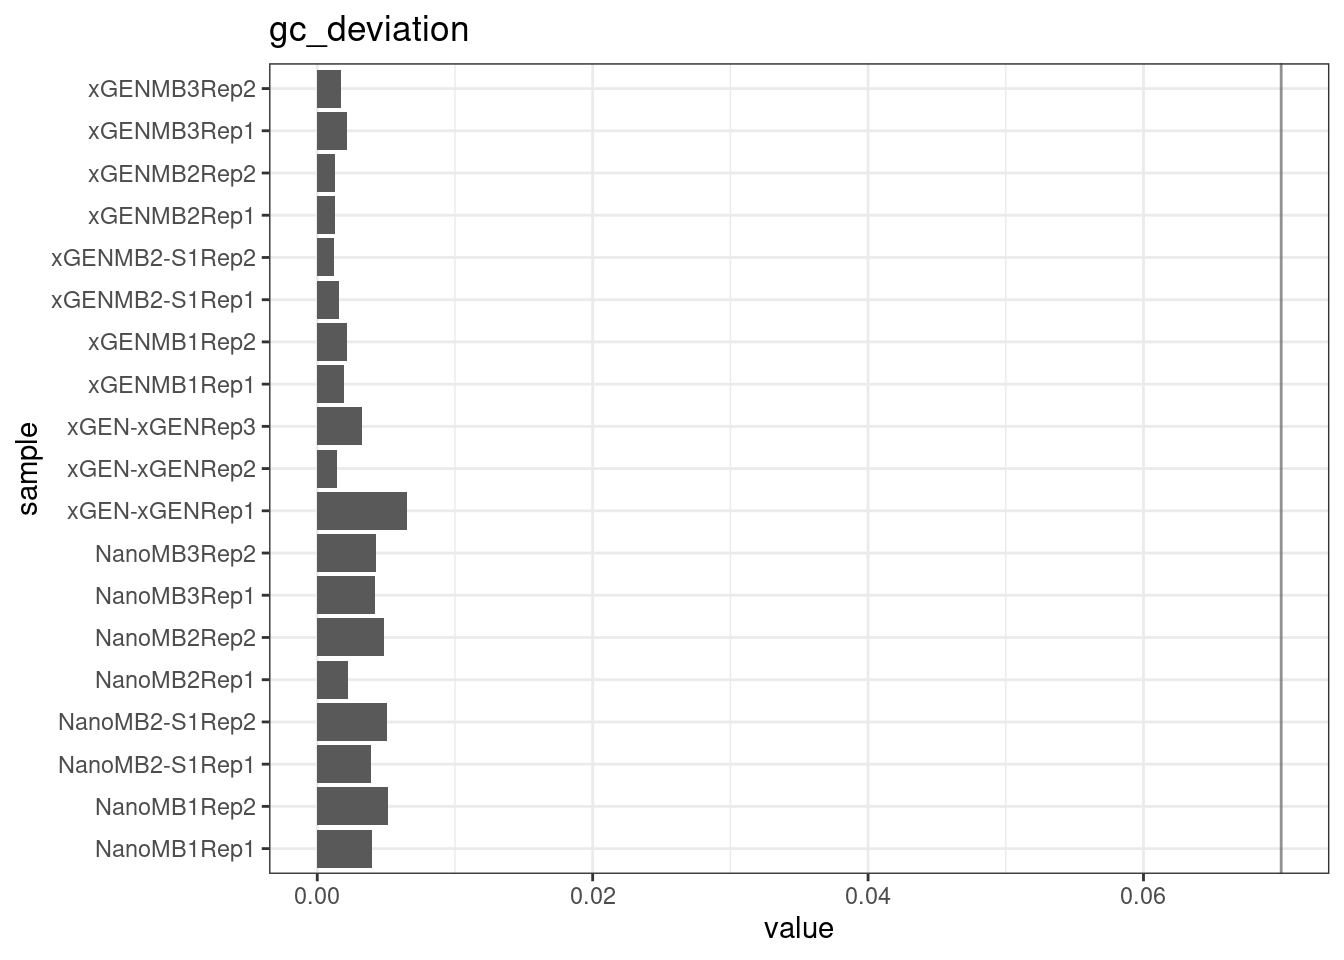
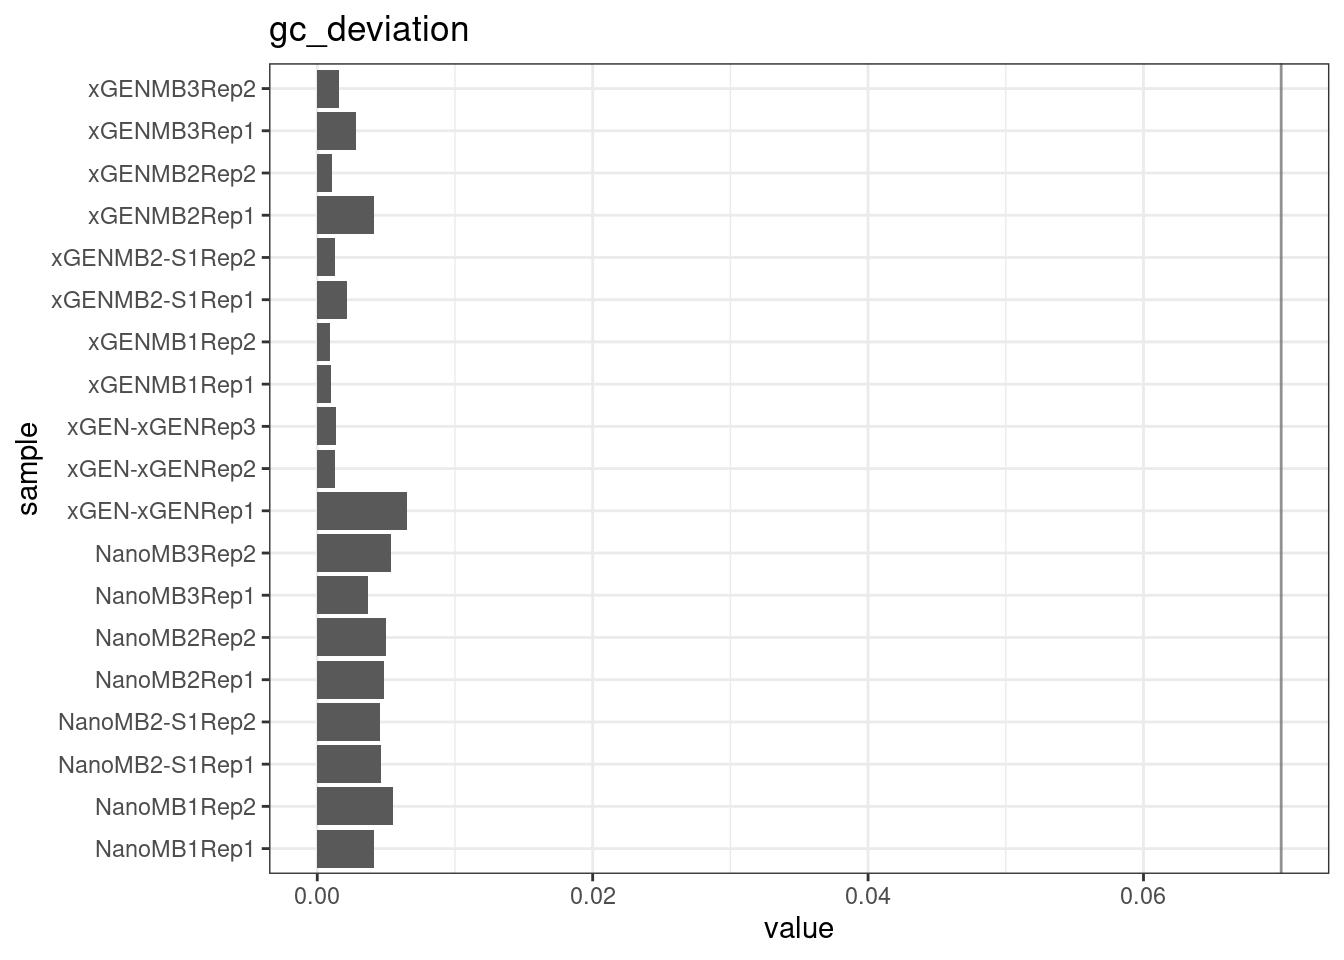
Build site.

diff --git a/docs/ecoli_K12.html b/docs/ecoli_K12.html
@@ -394,7 +394,7 @@ div.tocify {
 <div class="tab-content">
 <div id="summary" class="tab-pane fade in active">
 <p>
-<strong>Last updated:</strong> 2022-04-07
+<strong>Last updated:</strong> 2022-04-08
 </p>
 <p>
 <strong>Checks:</strong> <span class="glyphicon glyphicon-ok text-success" aria-hidden="true"></span> 7 <span class="glyphicon glyphicon-exclamation-sign text-danger" aria-hidden="true"></span> 0
@@ -485,16 +485,16 @@ This reproducible <a href="http://rmarkdown.rstudio.com">R Markdown</a> analysis
 <div class="panel panel-default">
 <div class="panel-heading">
 <p class="panel-title">
-<a data-toggle="collapse" data-parent="#workflowr-checks" href="#strongRepositoryversionstrongahrefhttpsgithubcommcmeroraremutationdetectiontreee10a166c4f7b635f4465fc3c4e39784d8e5769e2targetblanke10a166a"> <span class="glyphicon glyphicon-ok text-success" aria-hidden="true"></span> <strong>Repository version:</strong> <a href="https://github.com/mcmero/rare-mutation-detection/tree/e10a166c4f7b635f4465fc3c4e39784d8e5769e2" target="_blank">e10a166</a> </a>
+<a data-toggle="collapse" data-parent="#workflowr-checks" href="#strongRepositoryversionstrongahrefhttpsgithubcommcmeroraremutationdetectiontreebffbb7e47a044808e3459c496c93f7423760ba2dtargetblankbffbb7ea"> <span class="glyphicon glyphicon-ok text-success" aria-hidden="true"></span> <strong>Repository version:</strong> <a href="https://github.com/mcmero/rare-mutation-detection/tree/bffbb7e47a044808e3459c496c93f7423760ba2d" target="_blank">bffbb7e</a> </a>
 </p>
 </div>
[2 lines of base64/hex data omitted]
 <div class="panel-body">
 <p>
 Great! You are using Git for version control. Tracking code development and connecting the code version to the results is critical for reproducibility.
 </p>
 <p>
-The results in this page were generated with repository version <a href="https://github.com/mcmero/rare-mutation-detection/tree/e10a166c4f7b635f4465fc3c4e39784d8e5769e2" target="_blank">e10a166</a>. See the <em>Past versions</em> tab to see a history of the changes made to the R Markdown and HTML files.
+The results in this page were generated with repository version <a href="https://github.com/mcmero/rare-mutation-detection/tree/bffbb7e47a044808e3459c496c93f7423760ba2d" target="_blank">bffbb7e</a>. See the <em>Past versions</em> tab to see a history of the changes made to the R Markdown and HTML files.
 </p>
 <p>
 Note that you need to be careful to ensure that all relevant files for the analysis have been committed to Git prior to generating the results (you can use <code>wflow_publish</code> or <code>wflow_git_commit</code>). workflowr only checks the R Markdown file, but you know if there are other scripts or data files that it depends on. Below is the status of the Git repository when the results were generated:
@@ -519,9 +519,6 @@ Untracked files:
     Untracked:  data/
     Untracked:  metrics.rds
     Untracked:  prototype_code/
-
-Unstaged changes:
-    Modified:   code/load_data.R
 
 </code></pre>
 <p>
@@ -560,6 +557,40 @@ Message
 </tr>
 </thead>
 <tbody>
+<tr>
+<td>
+Rmd
+</td>
+<td>
+<a href="https://github.com/mcmero/rare-mutation-detection/blob/bffbb7e47a044808e3459c496c93f7423760ba2d/analysis/ecoli_K12.Rmd" target="_blank">bffbb7e</a>
+</td>
+<td>
+Marek Cmero
+</td>
+<td>
+2022-04-08
+</td>
+<td>
+Repeat variant analysis without filtering strand bias
+</td>
+</tr>
+<tr>
+<td>
+html
+</td>
+<td>
+<a href="https://rawcdn.githack.com/mcmero/rare-mutation-detection/c246dc2fe2999e98e6daf86e38b31414df507d7e/docs/ecoli_K12.html" target="_blank">c246dc2</a>
+</td>
+<td>
+Marek Cmero
+</td>
+<td>
+2022-04-07
+</td>
+<td>
+Build site.
+</td>
+</tr>
 <tr>
 <td>
 Rmd
@@ -1295,6 +1326,17 @@ Date
 <tbody>
 <tr>
 <td>
+<a href="https://github.com/mcmero/rare-mutation-detection/blob/c246dc2fe2999e98e6daf86e38b31414df507d7e/docs/figure/ecoli_K12.Rmd/gc_deviation-1.png" target="_blank">c246dc2</a>
+</td>
+<td>
+Marek Cmero
+</td>
+<td>
+2022-04-07
+</td>
+</tr>
+<tr>
+<td>
 <a href="https://github.com/mcmero/rare-mutation-detection/blob/a8601010ee4d8b48191aeedf7be6bb95ae0b1234/docs/figure/ecoli_K12.Rmd/gc_deviation-1.png" target="_blank">a860101</a>
 </td>
 <td>
@@ -1754,6 +1796,17 @@ Date
 <tbody>
 <tr>
 <td>
+<a href="https://github.com/mcmero/rare-mutation-detection/blob/c246dc2fe2999e98e6daf86e38b31414df507d7e/docs/figure/ecoli_K12.Rmd/metrics_comp-5.png" target="_blank">c246dc2</a>
+</td>
+<td>
+Marek Cmero
+</td>
+<td>
+2022-04-07
+</td>
+</tr>
+<tr>
+<td>
 <a href="https://github.com/mcmero/rare-mutation-detection/blob/a8601010ee4d8b48191aeedf7be6bb95ae0b1234/docs/figure/ecoli_K12.Rmd/metrics_comp-5.png" target="_blank">a860101</a>
 </td>
 <td>
@@ -1906,6 +1959,17 @@ Date
 <tbody>
 <tr>
 <td>
+<a href="https://github.com/mcmero/rare-mutation-detection/blob/c246dc2fe2999e98e6daf86e38b31414df507d7e/docs/figure/ecoli_K12.Rmd/unnamed-chunk-1-1.png" target="_blank">c246dc2</a>
+</td>
+<td>
+Marek Cmero
+</td>
+<td>
+2022-04-07
+</td>
+</tr>
+<tr>
+<td>
 <a href="https://github.com/mcmero/rare-mutation-detection/blob/a8601010ee4d8b48191aeedf7be6bb95ae0b1234/docs/figure/ecoli_K12.Rmd/unnamed-chunk-1-1.png" target="_blank">a860101</a>
 </td>
 <td>
@@ -2004,6 +2068,17 @@ Date
 <tbody>
 <tr>
 <td>
+<a href="https://github.com/mcmero/rare-mutation-detection/blob/c246dc2fe2999e98e6daf86e38b31414df507d7e/docs/figure/ecoli_K12.Rmd/unnamed-chunk-1-2.png" target="_blank">c246dc2</a>
+</td>
+<td>
+Marek Cmero
+</td>
+<td>
+2022-04-07
+</td>
+</tr>
+<tr>
+<td>
 <a href="https://github.com/mcmero/rare-mutation-detection/blob/a8601010ee4d8b48191aeedf7be6bb95ae0b1234/docs/figure/ecoli_K12.Rmd/unnamed-chunk-1-2.png" target="_blank">a860101</a>
 </td>
 <td>
@@ -2093,7 +2168,7 @@ print(stats)</code></pre>
 1       frac_singletons 0.350920599       FALSE
 2            efficiency 0.001645545        TRUE
 3         drop_out_rate 0.001656330        TRUE
-4          gc_deviation 0.005420745        TRUE
+4          gc_deviation 0.001544453        TRUE
 5        duplicate_rate 0.922536682       FALSE
 6 duplex_coverage_ratio 0.316697444       FALSE</code></pre>
 </div>
@@ -2131,11 +2206,11 @@ print(stats)</code></pre>
 13         drop_out_rate S1Unit                0.0904262242       FALSE
 14         drop_out_rate MungBeanUnit:protocol 0.8387881526       FALSE
 15         drop_out_rate protocol:S1Unit       0.3182162279       FALSE
-16          gc_deviation MungBeanUnit          0.6865384229       FALSE
-17          gc_deviation protocol              0.0038528954        TRUE
-18          gc_deviation S1Unit                0.5986659578       FALSE
-19          gc_deviation MungBeanUnit:protocol 0.9766426851       FALSE
-20          gc_deviation protocol:S1Unit       0.6771468266       FALSE
+16          gc_deviation MungBeanUnit          0.9377278830       FALSE
+17          gc_deviation protocol              0.0058150274        TRUE
+18          gc_deviation S1Unit                0.6088535179       FALSE
+19          gc_deviation MungBeanUnit:protocol 0.7539765086       FALSE
+20          gc_deviation protocol:S1Unit       0.8038907079       FALSE
 21        duplicate_rate MungBeanUnit          0.3209743574       FALSE
 22        duplicate_rate protocol              0.6617113407       FALSE
 23        duplicate_rate S1Unit                0.4855983121       FALSE
@@ -2377,7 +2452,7 @@ Marek Cmero
 </div>
 <div id="variant-calls" class="section level2">
 <h2>Variant calls</h2>
-<p>Upset plot showing duplex variant calls.</p>
+<p>Upset plot showing duplex variant calls. Variants were called in areas with at least 4x coverage with at least 2 supporting reads and a VAF of <span class="math inline">\(\geq2\)</span>.</p>
 <pre class="r"><code>var_df &lt;- NULL
 for (i in 1:length(vars)) {
     svars &lt;- vars[[i]]@fix %&gt;% data.frame()
@@ -2398,6 +2473,43 @@ for(sample in sample_names) {
 
 upset(fromList(ulist), order.by=&#39;freq&#39;, nsets=8)</code></pre>
 <p><img src="figure/ecoli_K12.Rmd/variants-1.png" width="672" style="display: block; margin: auto;" /></p>
+<p>
+<button type="button" class="btn btn-default btn-xs btn-workflowr btn-workflowr-fig" data-toggle="collapse" data-target="#fig-variants-1">
+Past versions of variants-1.png
+</button>
+</p>
+<div id="fig-variants-1" class="collapse">
+<div class="table-responsive">
+<table class="table table-condensed table-hover">
+<thead>
+<tr>
+<th>
+Version
+</th>
+<th>
+Author
+</th>
+<th>
+Date
+</th>
+</tr>
+</thead>
+<tbody>
+<tr>
+<td>
+<a href="https://github.com/mcmero/rare-mutation-detection/blob/c246dc2fe2999e98e6daf86e38b31414df507d7e/docs/figure/ecoli_K12.Rmd/variants-1.png" target="_blank">c246dc2</a>
+</td>
+<td>
+Marek Cmero
+</td>
+<td>
+2022-04-07
+</td>
+</tr>
+</tbody>
+</table>
+</div>
+</div>
 <br>
 <p>
 <button type="button" class="btn btn-default btn-workflowr btn-workflowr-sessioninfo" data-toggle="collapse" data-target="#workflowr-sessioninfo" style="display: block;">
